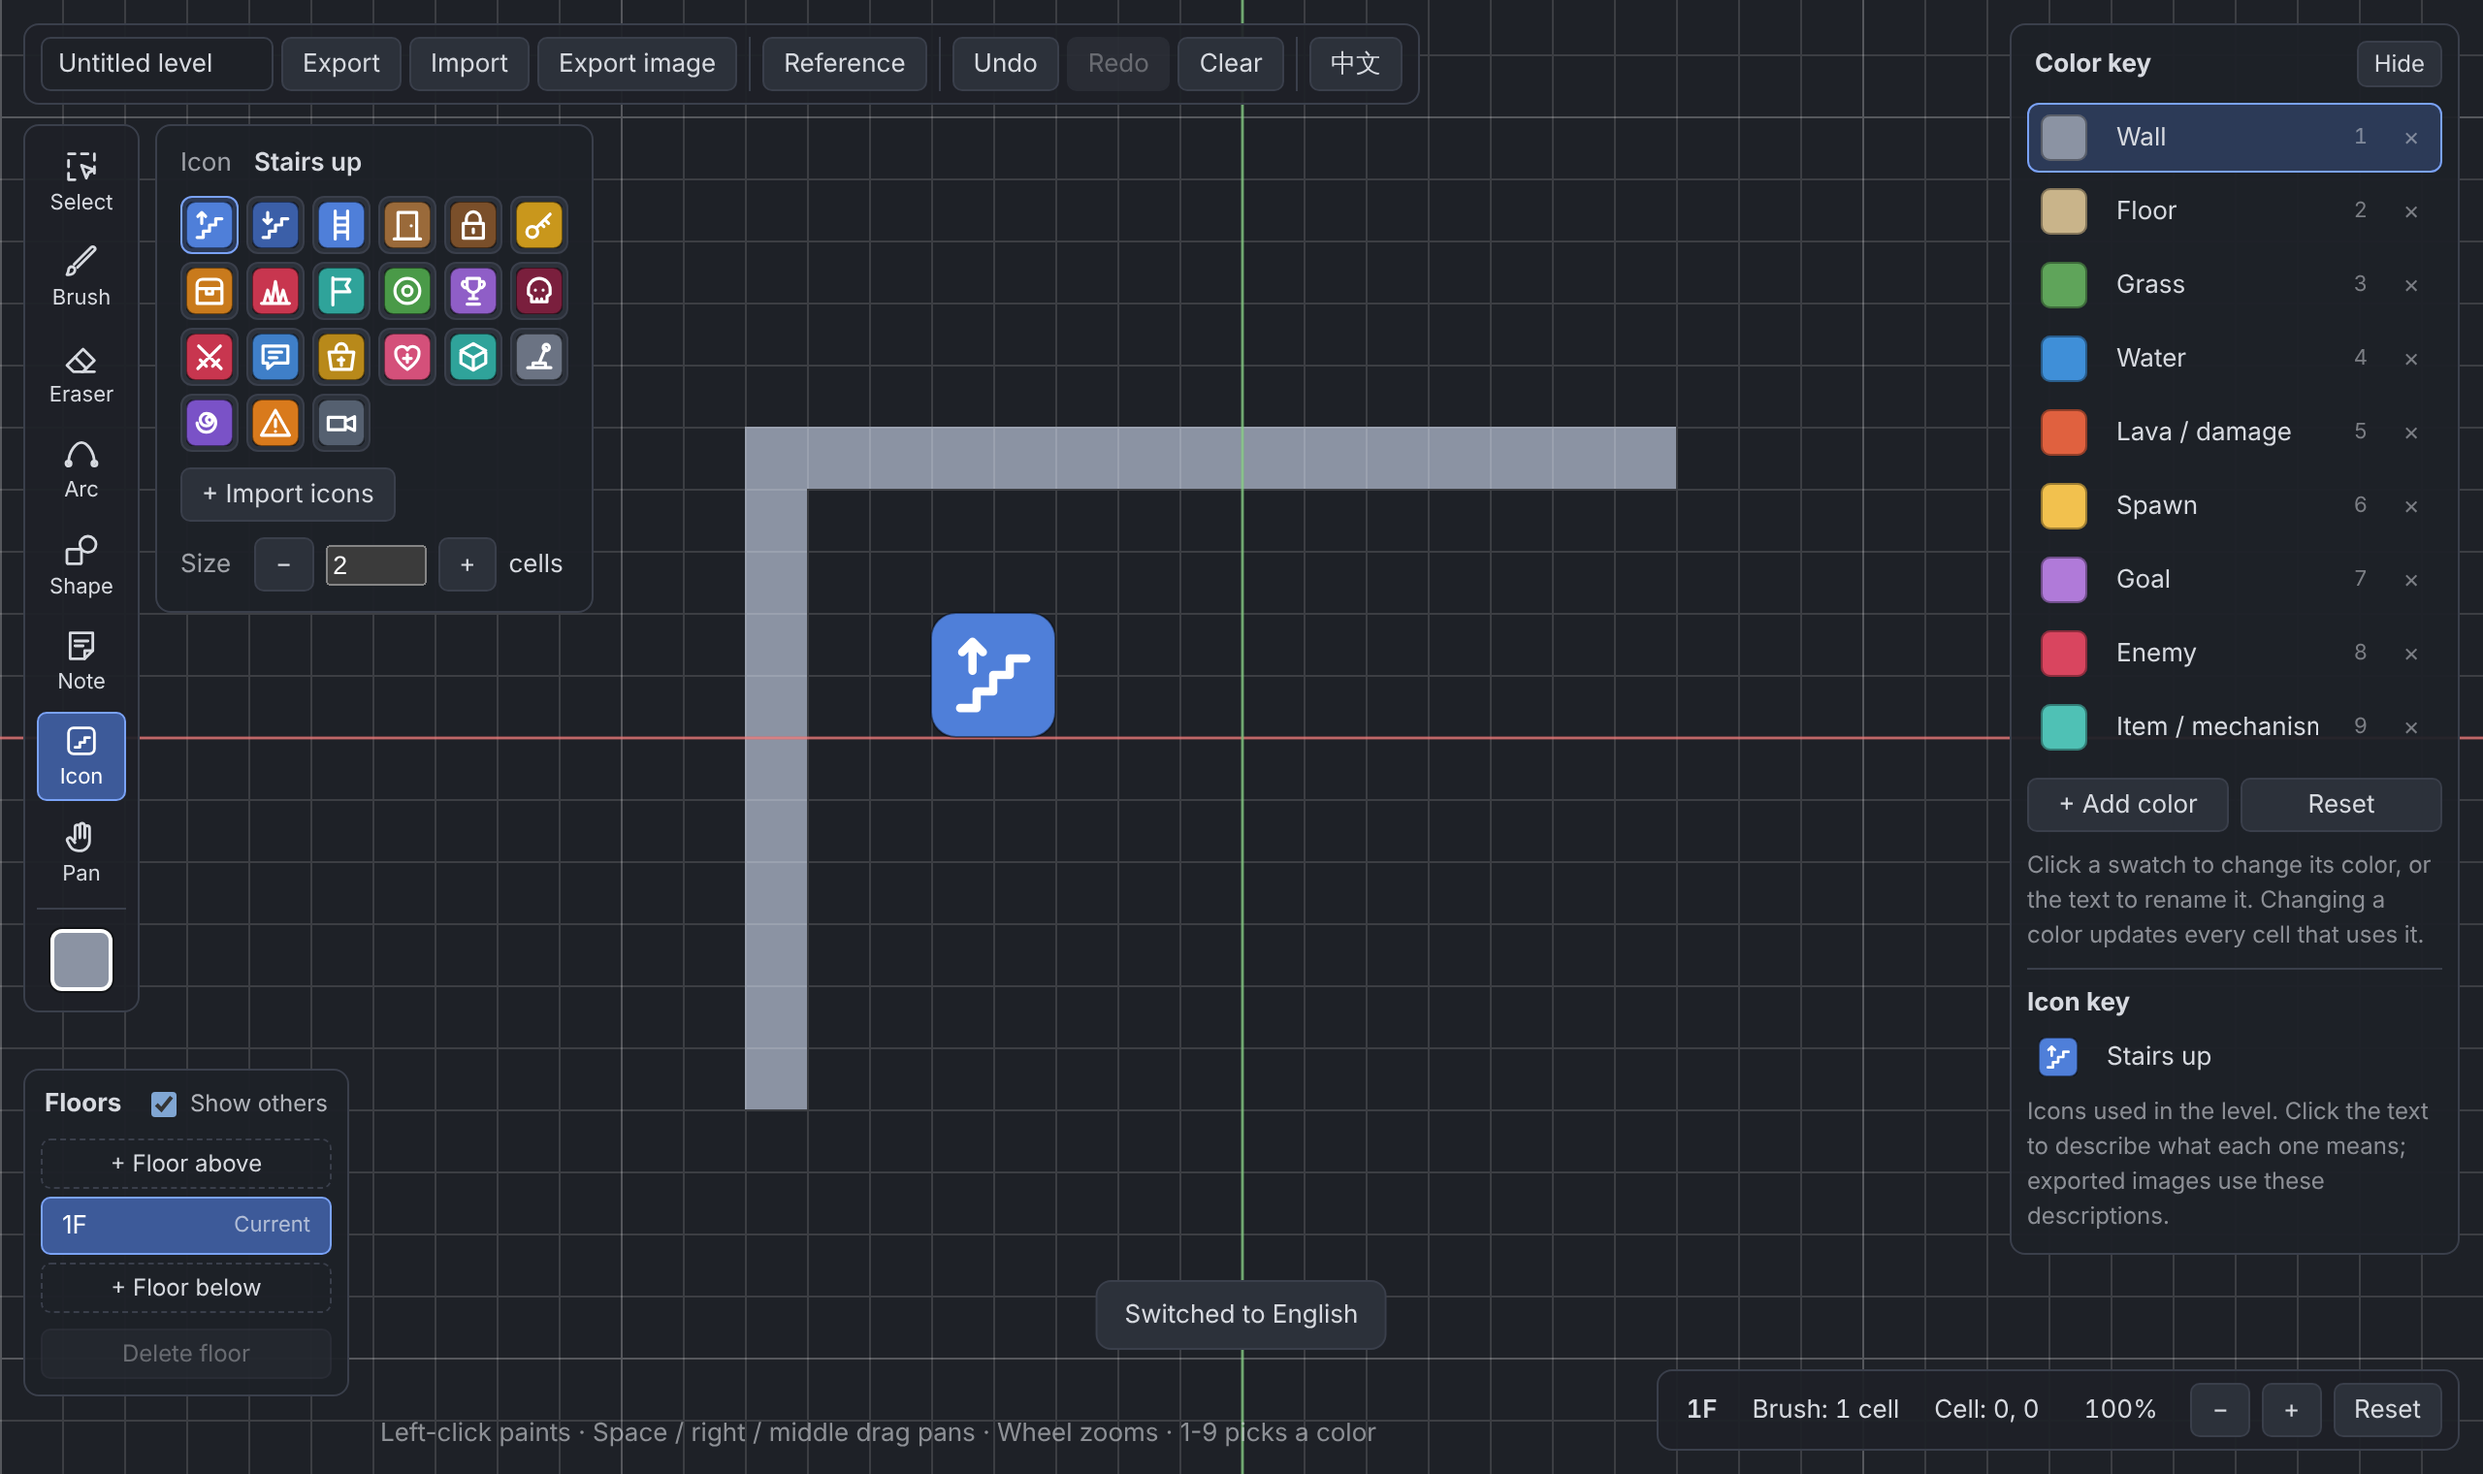
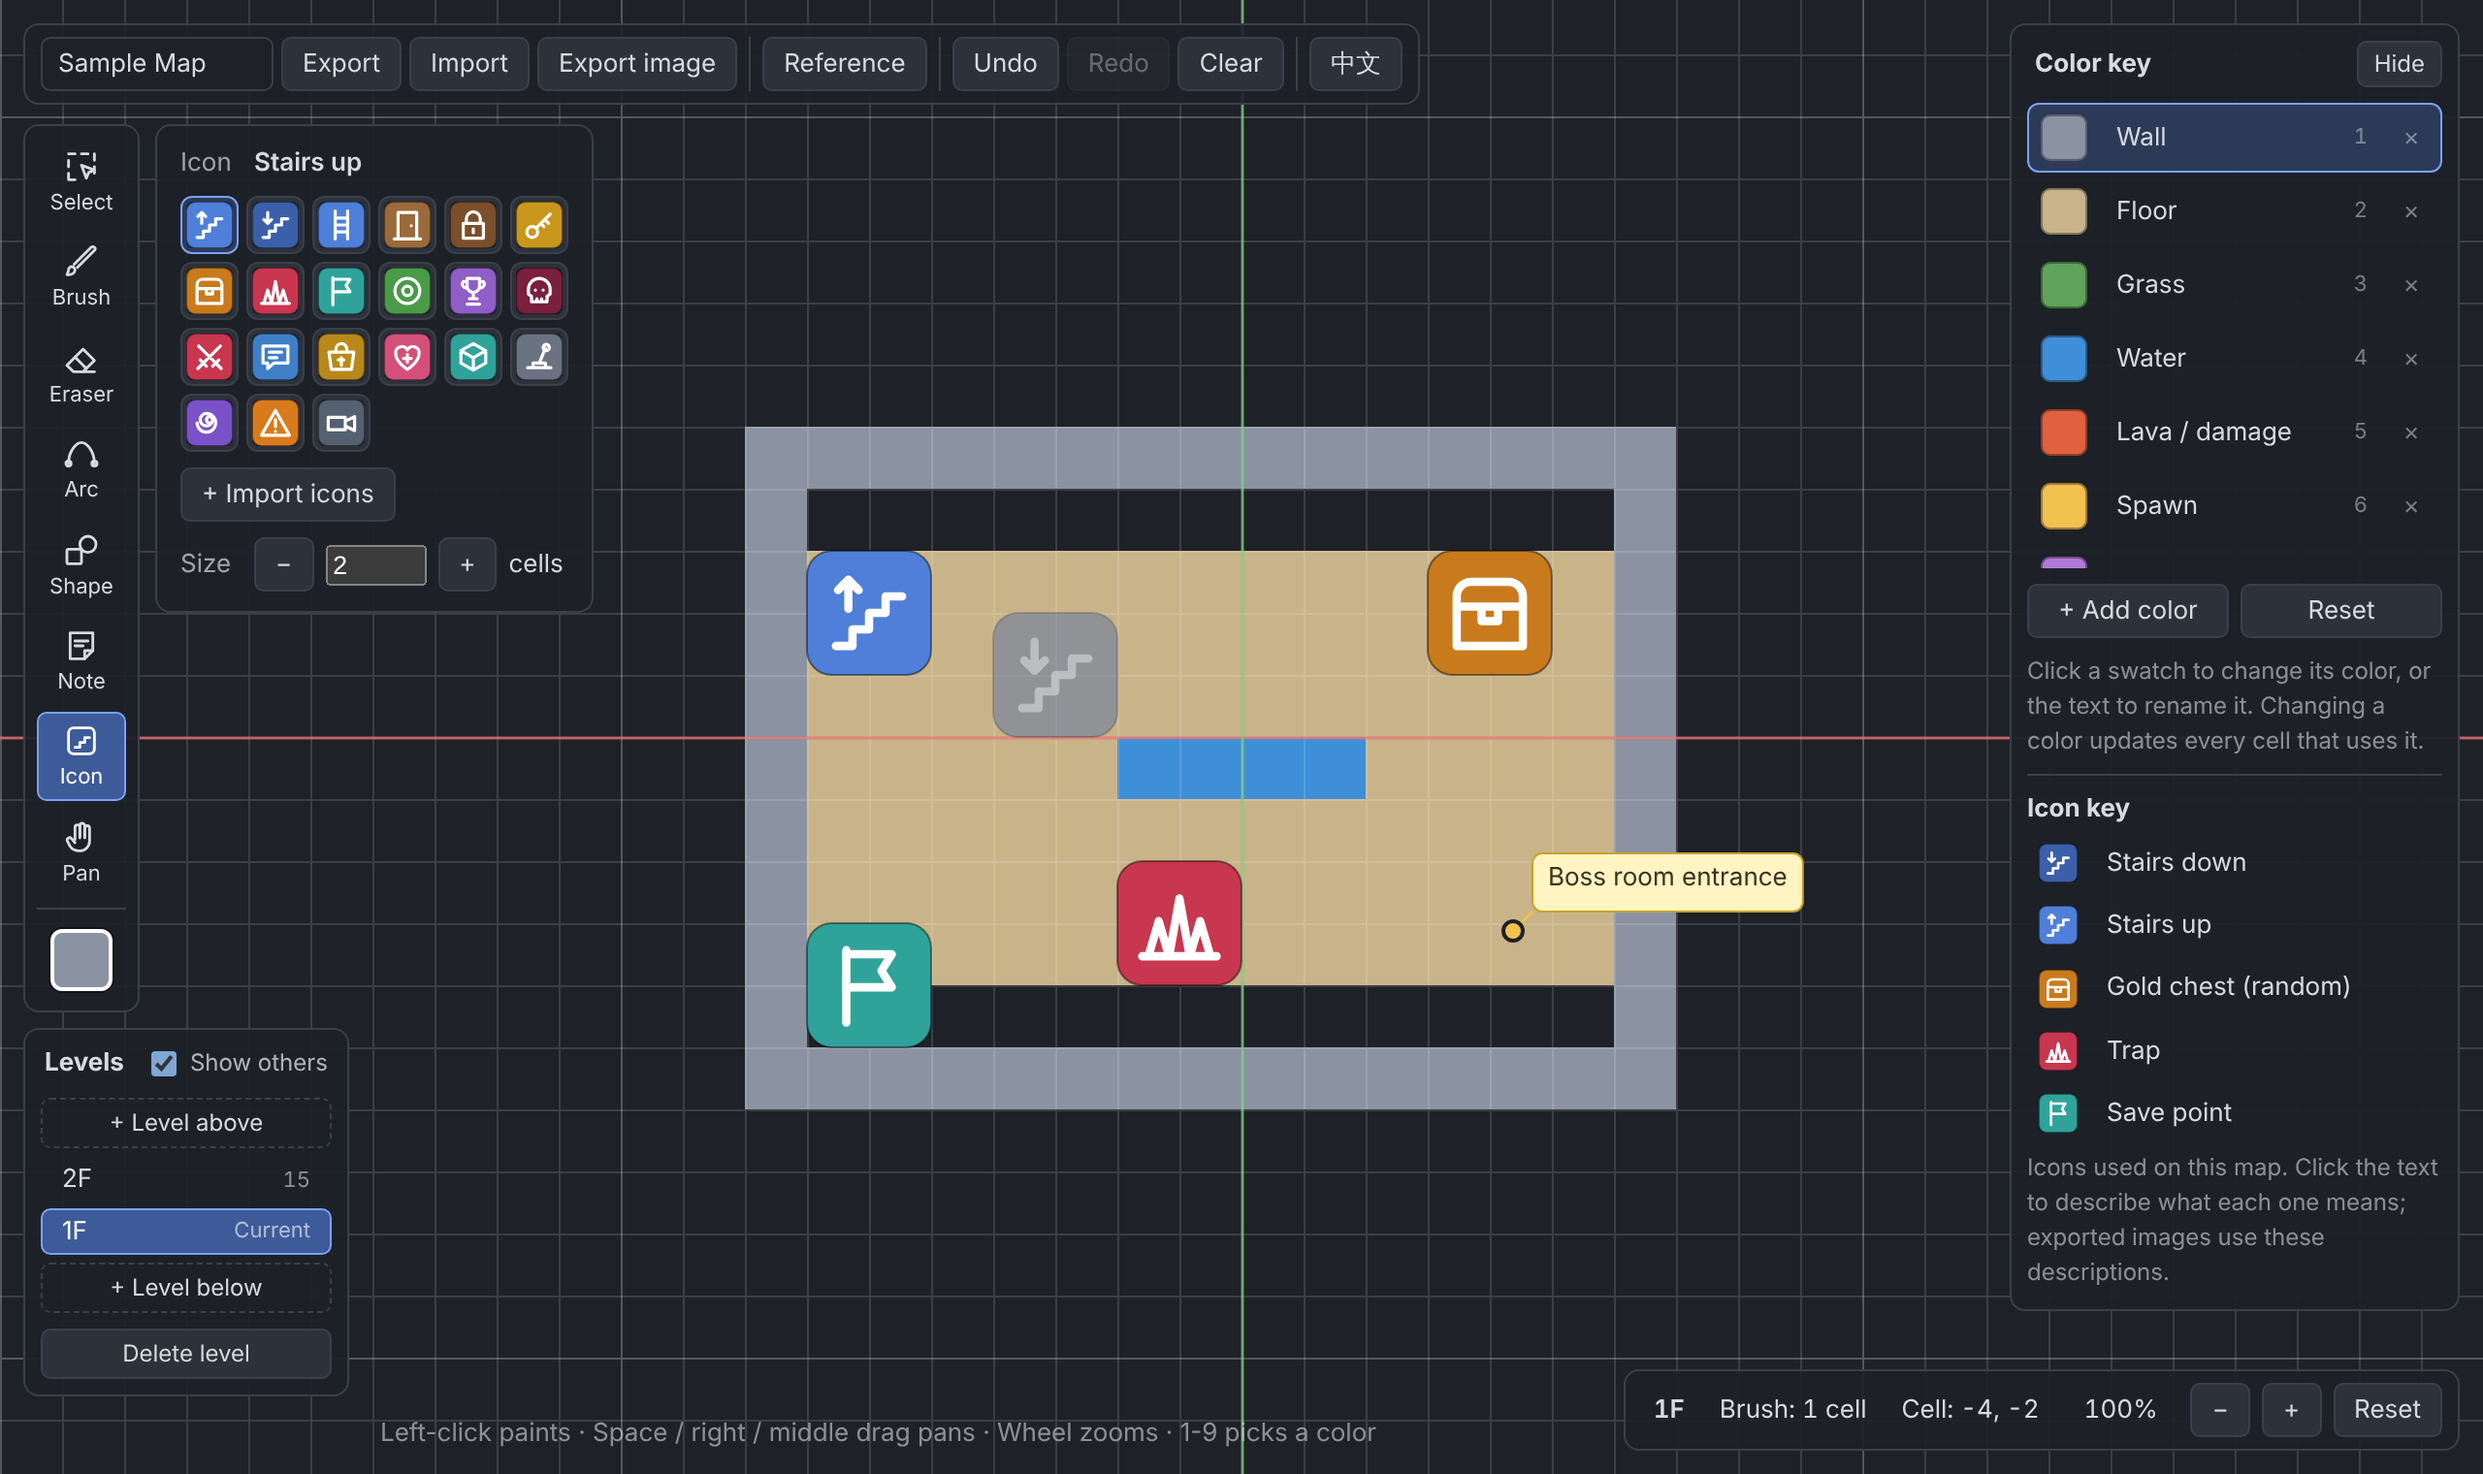
英文 README 使用英文界面截图 (#6)
Claude-Session: https://claude.ai/code/session_01GEUeSfRE1F186iubgPmE8E

diff --git a/README.en.md b/README.en.md
@@ -45,7 +45,7 @@ It is a single self-contained HTML file with all the code inside. You can send i
    - **Export** saves a `.json` project file. Send it to someone and they can **Import** it to keep editing (also the way to move to another computer or browser)
    - **Export image** (`Ctrl+Shift+S`) saves PNGs: one per level (in a ZIP) or all levels in one tall image, with the color and icon key along the bottom
 
-![Exported image](docs/images/export.png)
+![Exported image](docs/images/export-en.png)
 
 ## Features
 
